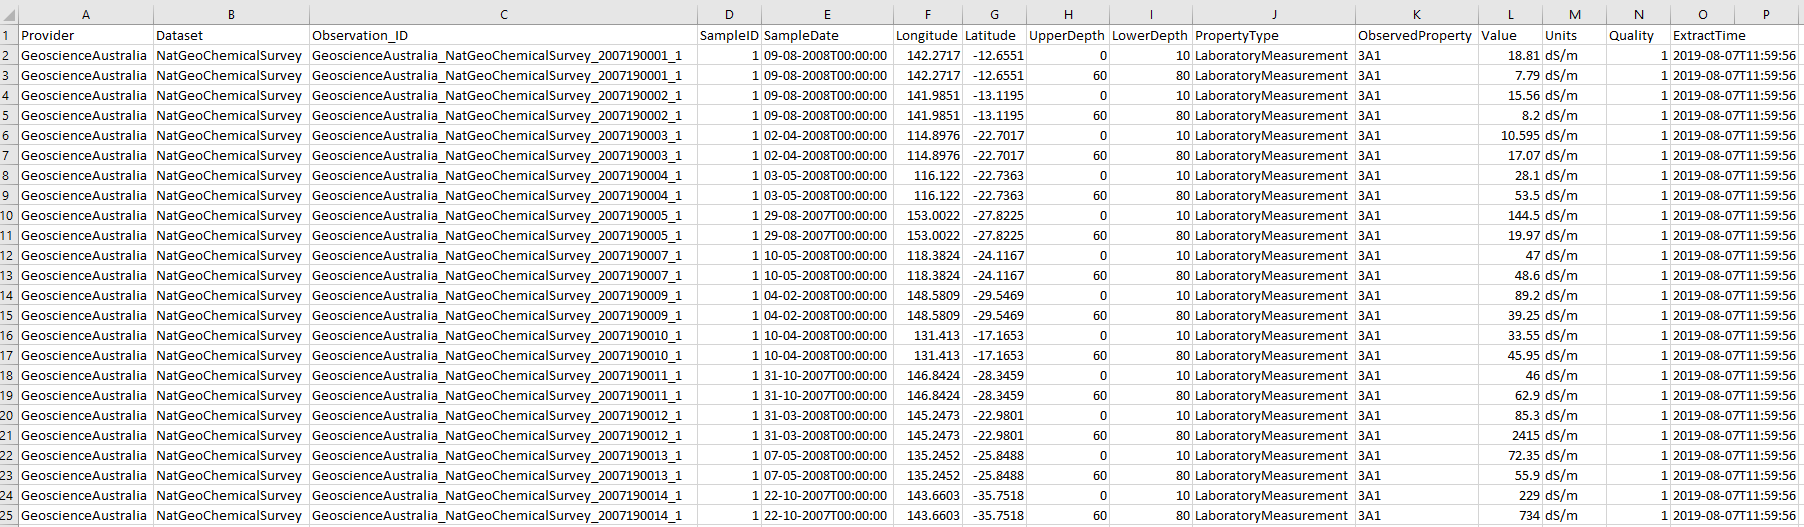
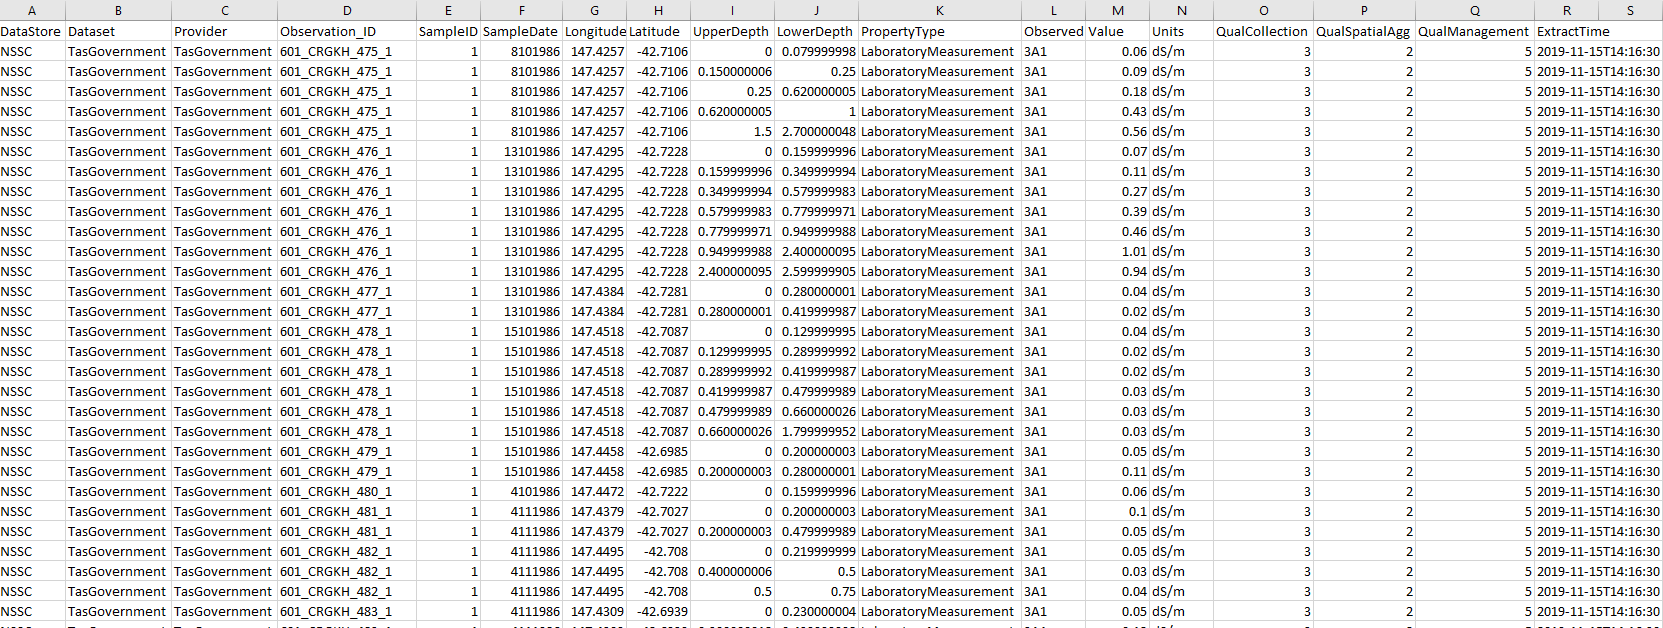
Updated docs and examples to reflect changes

diff --git a/R/Docs/index.html b/R/Docs/index.html
@@ -35,8 +35,8 @@ description data and Laboratory analysis data.<br>
 The SoilDataFederator web API is designed to be as simple as possible.
 Users can query API end point to return information about<br>
 <ul>
-  <li><span style="font-weight: bold;">Providers </span>- which
-organisations are contributing data. </li>
+  <li><span style="font-weight: bold;">DataSets </span>- which
+DataSets are avialable in the system. </li>
   <li><span style="font-weight: bold;">Properties</span> - which soil
 properties are available in the system. </li>
   <li><span style="font-weight: bold;">PropertyGroups </span>- defined
@@ -90,11 +90,10 @@ Some licencing info should go here when we sort it out.<br>
 <br>
 The following endpoints are currently available in the SoilDataFederator<br>
 <br>
-<h2 style="font-weight: bold;">Providers</h2>
-The <span style="font-weight: bold;">Providers</span> endpoint returns
-all of the organisations who are
-contributing data. The "OrgName" field can be used to filter data
-requests for some of the other endpoints. Examples of the 3 different
+<h2 style="font-weight: bold;">DataSets</h2>
+The DataSets endpoint returns
+all of the DataSets available in the SoilDataFederator. Examples of the
+3 different
 returned formats are listed below. After this, only the json example
 will be provided but other formats can be returned using the same query
 parameters.<br>
@@ -110,14 +109,22 @@ of the response to return. Either json, csv, or xml. Default = json</span></li>
  style="color: rgb(0, 0, 0); font-family: sans-serif; font-size: medium; font-style: normal; font-weight: 400; letter-spacing: normal; orphans: 2; text-align: start; text-indent: 0px; text-transform: none; white-space: normal; widows: 2; word-spacing: 0px; display: inline ! important; float: none;"></span>
 <ul>
   <li><a
- href="https://esoil.io/TERNLandscapes/SoilDataFederatoR/R/SoilDataAPI/Providers"
- target="_blank">https://esoil.io/TERNLandscapes/SoilDataFederatoR/R/SoilDataAPI/Providers&nbsp;</a>
+ href="https://esoil.io/TERNLandscapes/SoilDataFederatoR/R/SoilDataAPI/DataSets"
+ target="_blank">https://esoil.io/TERNLandscapes/SoilDataFederatoR/R/SoilDataAPI/DataSets&nbsp;</a>
 - Returns data as json format</li>
-  <li><a target="_blank"
- href="https://esoil.io/TERNLandscapes/SoilDataFederatoR/R/SoilDataAPI/Providers?format=xml">https://esoil.io/TERNLandscapes/SoilDataFederatoR/R/SoilDataAPI/Providers?format=xml</a>
-- Returns data as xml format</li>
   <li><a
- href="https://esoil.io/TERNLandscapes/SoilDataFederatoR/R/SoilDataAPI/Providers?format=csv">https://esoil.io/TERNLandscapes/SoilDataFederatoR/R/SoilDataAPI/Providers?format=csv</a>
+ href="https://esoil.io/TERNLandscapes/SoilDataFederatoR/R/SoilDataAPI/DataSets?format=xml"
+ target="_blank">https://esoil.io/TERNLandscapes/SoilDataFederatoR/R/SoilDataAPI/DataSets</a><a
+ target="_blank"
+ href="https://esoil.io/TERNLandscapes/SoilDataFederatoR/R/SoilDataAPI/DataSets?format=xml">?format=xml</a><a
+ href="https://esoil.io/TERNLandscapes/SoilDataFederatoR/R/SoilDataAPI/DataSets?format=xml"
+ target="_blank">
+    </a>- Returns data as xml format</li>
+  <li><a
+ href="https://esoil.io/TERNLandscapes/SoilDataFederatoR/R/SoilDataAPI/DataSets?format=csv"
+ target="_blank">https://esoil.io/TERNLandscapes/SoilDataFederatoR/R/SoilDataAPI/DataSets</a><a
+ target="_blank"
+ href="https://esoil.io/TERNLandscapes/SoilDataFederatoR/R/SoilDataAPI/DataSets?format=csv">?format=csv</a>
 -
 Returns data as csv file download</li>
 </ul>
@@ -245,12 +252,12 @@ to query on. eg 'pH" or 'SURF_COARSE_FRAGS'. Either this
 or the "observedProperty" parameter is required.</span></li>
   <li><span
  style="color: rgb(0, 0, 0); font-family: sans-serif; font-size: medium; font-style: normal; font-weight: 400; letter-spacing: normal; orphans: 2; text-align: start; text-indent: 0px; text-transform: none; white-space: normal; widows: 2; word-spacing: 0px; display: inline ! important; float: none;"><span
- style="font-style: italic;">providers</span> </span><span
+ style="font-style: italic;">DataSet</span> </span><span
  style="font-style: italic;">(string) </span><span
  style="color: rgb(0, 0, 0); font-family: sans-serif; font-size: medium; font-style: normal; font-weight: 400; letter-spacing: normal; orphans: 2; text-align: start; text-indent: 0px; text-transform: none; white-space: normal; widows: 2; word-spacing: 0px; display: inline ! important; float: none;">
-- filter on specific data
-Providers. This can be a single provider code or a semi colon delimited
-text string eg "TasGovernment;NSWGovernment". If this parameter is not
+- filter on specific data sets. This can be a single DataSet code or a
+semi colon delimited
+text string eg "TasGovernment;SAGovernment". If this parameter is not
 provided all the data Providers will be queried.</span></li>
   <li><span style="font-style: italic;">format</span> <span
  style="font-style: italic;">(string) </span> -&nbsp; <span
@@ -291,9 +298,9 @@ filter parameters can potentially be added on request by asking a <a
 <h4>Endpoint Syntax</h4>
 <ul>
   <li><a
- href="https://esoil.io/TERNLandscapes/SoilDataFederatoR/R/SoilDataAPI/SoilData?observedProperty=3A1&amp;providers=TasGovernment&amp;usr=Demo&amp;key=Demo"
- target="_blank">https://esoil.io/TERNLandscapes/SoilDataFederatoR/R/SoilDataAPI/SoilData?observedProperty=3A1&amp;providers=TasGovernment</a><a
- href="https://esoil.io/TERNLandscapes/SoilDataFederatoR/R/SoilDataAPI/SoilData?observedProperty=3A1&amp;providers=TasGovernment&amp;usr=Demo&amp;key=Demo"
+ href="https://esoil.io/TERNLandscapes/SoilDataFederatoR/R/SoilDataAPI/SoilData?observedProperty=3A1&amp;DataSet=TasGovernment&amp;usr=Demo&amp;key=Demo"
+ target="_blank">https://esoil.io/TERNLandscapes/SoilDataFederatoR/R/SoilDataAPI/SoilData?observedProperty=3A1&amp;DataSet=TasGovernment</a><a
+ href="https://esoil.io/TERNLandscapes/SoilDataFederatoR/R/SoilDataAPI/SoilData?observedProperty=3A1&amp;DataSet=TasGovernment&amp;usr=Demo&amp;key=Demo"
  target="_blank">&amp;usr=Demo&amp;key=Demo</a>
 - returns soil propery data filtered by a specifc Provider code. Only 5
 records will be returned for demonstration purposes unless you have a
@@ -321,8 +328,12 @@ might be brocken at the moment<br>
 The fields returned from the SoilDataFederator for the "SoilData"
 endpont are<br>
 <ul>
-  <li>Provider&nbsp;&nbsp;&nbsp; </li>
-  <li>Dataset&nbsp;&nbsp;&nbsp; </li>
+  <li>DataStore<br>
+  </li>
+  <li>Dataset&nbsp;&nbsp; <br>
+  </li>
+  <li>Provider <br>
+  </li>
   <li>Observation_ID&nbsp;&nbsp;&nbsp; </li>
   <li>SampleID&nbsp;&nbsp;&nbsp; </li>
   <li>SampleDate&nbsp;&nbsp;&nbsp; </li>
@@ -334,7 +345,10 @@ endpont are<br>
   <li>ObservedProperty&nbsp;&nbsp;&nbsp; </li>
   <li>Value&nbsp;&nbsp;&nbsp; </li>
   <li>Units&nbsp;&nbsp;&nbsp; </li>
-  <li>Quality&nbsp;&nbsp;&nbsp; </li>
+  <li>QualCollection</li>
+  <li>QualSpatialAgg</li>
+  <li>QualManagement<br>
+  </li>
   <li>ExtractTime&nbsp;&nbsp;&nbsp; </li>
 </ul>
 <div id="message-bar" class="swagger-ui-wrap" data-sw-translate="">&nbsp;<br>
@@ -342,7 +356,7 @@ endpont are<br>
 returned data</span><br>
 </div>
 <br>
-<img style="width: 1804px; height: 527px;" alt="Data Format"
+<img style="width: 1663px; height: 628px;" alt="Output format"
  src="images/OutputFomat.PNG"><br>
 <div id="footer">
 <h1 class="textinbar">SLGA Funders<span style="margin-left: 22%;">Partners</span></h1>
